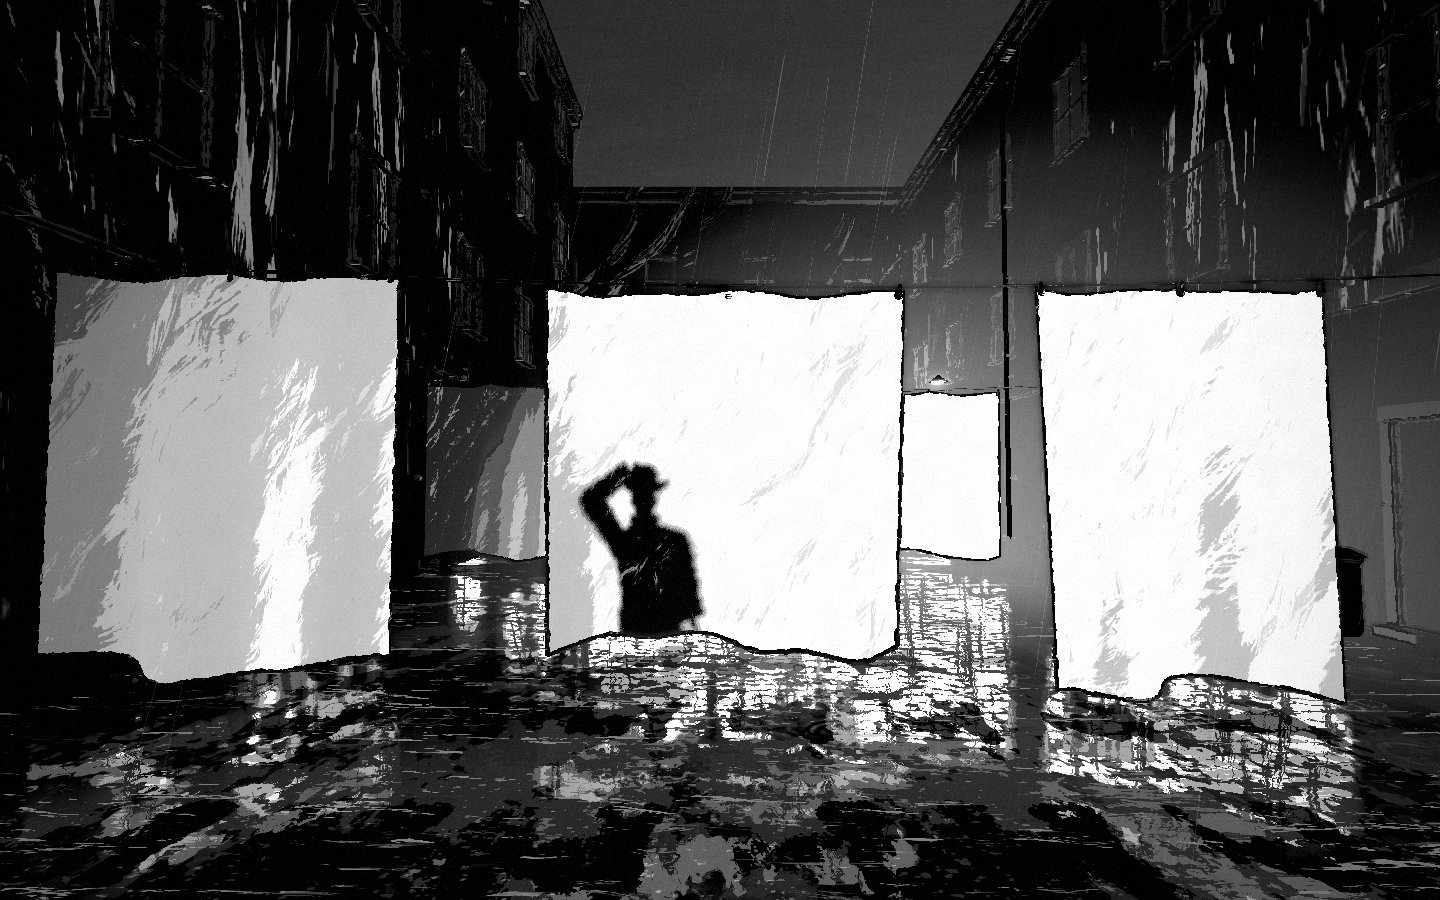
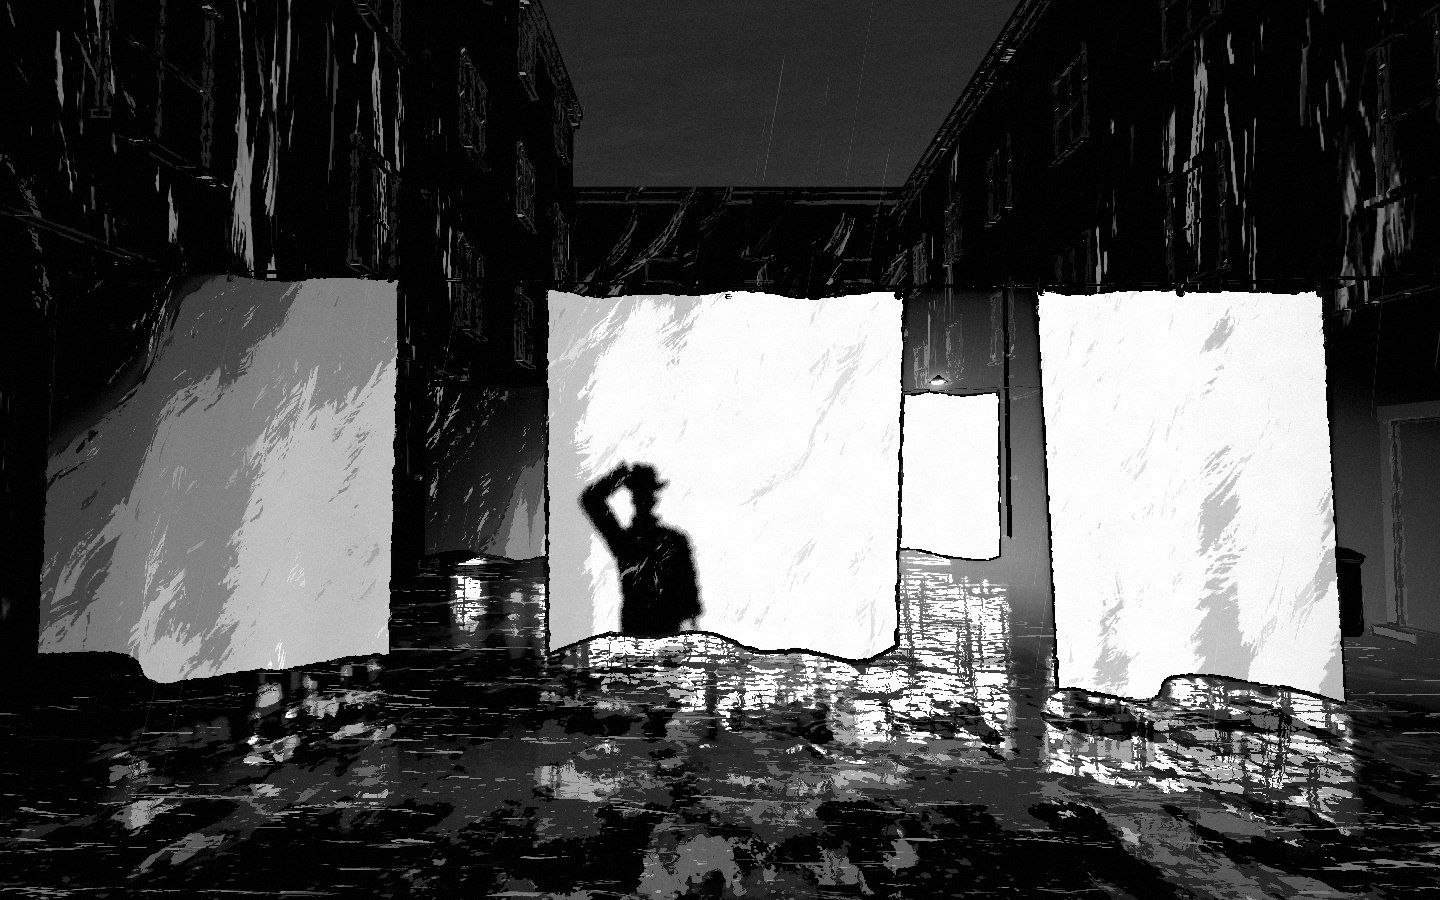
R2-C watcher: the yard's flood aimed lower (the washing and the wet under it, not the walls above), the look drawn down to him as soon as my head is out from under the sash; frames 05, 06 again

diff --git a/src/stages/backlot/parts/build.js b/src/stages/backlot/parts/build.js
@@ -389,7 +389,7 @@ export default {
     // a lamp over the door in the far wall of the yard, low, thrown down the
     // yard through the washing: the sheets glow with it, and a man just
     // past a line of them is his own shadow on them, as tall as he is
-    lamps.y3 = L.wall(43.2, 2.6, PASSAGE.z0, 0, 1, { out: 7.5, half: 0.34, strength: 0.9, height: 30 });
+    lamps.y3 = L.wall(43.2, 2.6, PASSAGE.z0, 0, 1, { out: 4.6, half: 0.34, strength: 0.9, height: 30 });
     // (its light carries the length of the yard: the washing 10 .. 26 m off
     // must be lit through, not just the ground under it)
     // ([R2-C] a narrower, harder beam: the washing, not the walls round it)

diff --git a/src/scenes/06_watcher.js b/src/scenes/06_watcher.js
@@ -226,7 +226,8 @@ export default defineScene({
           if (k > 0) { k = Math.max(0, k - dt / 0.3); G.hud.fade(k * k * (3 - 2 * k)); }
           const e = G.controller.esc;
           if (!e || draw === -2) return;
-          if (draw < 0 && e.s >= e.autoTo) draw = 0;
+          // (from the moment the head is out from under the sash)
+          if (draw < 0 && e.s >= e.autoTo - 0.4) draw = 0;
           if (draw < 0) return;
           // (a turn of the mouse or a step down the iron lets it go)
           if (e.idle < draw - 1e-6 || G.held('KeyW') || G.held('ArrowUp')) { draw = -2; return; }
